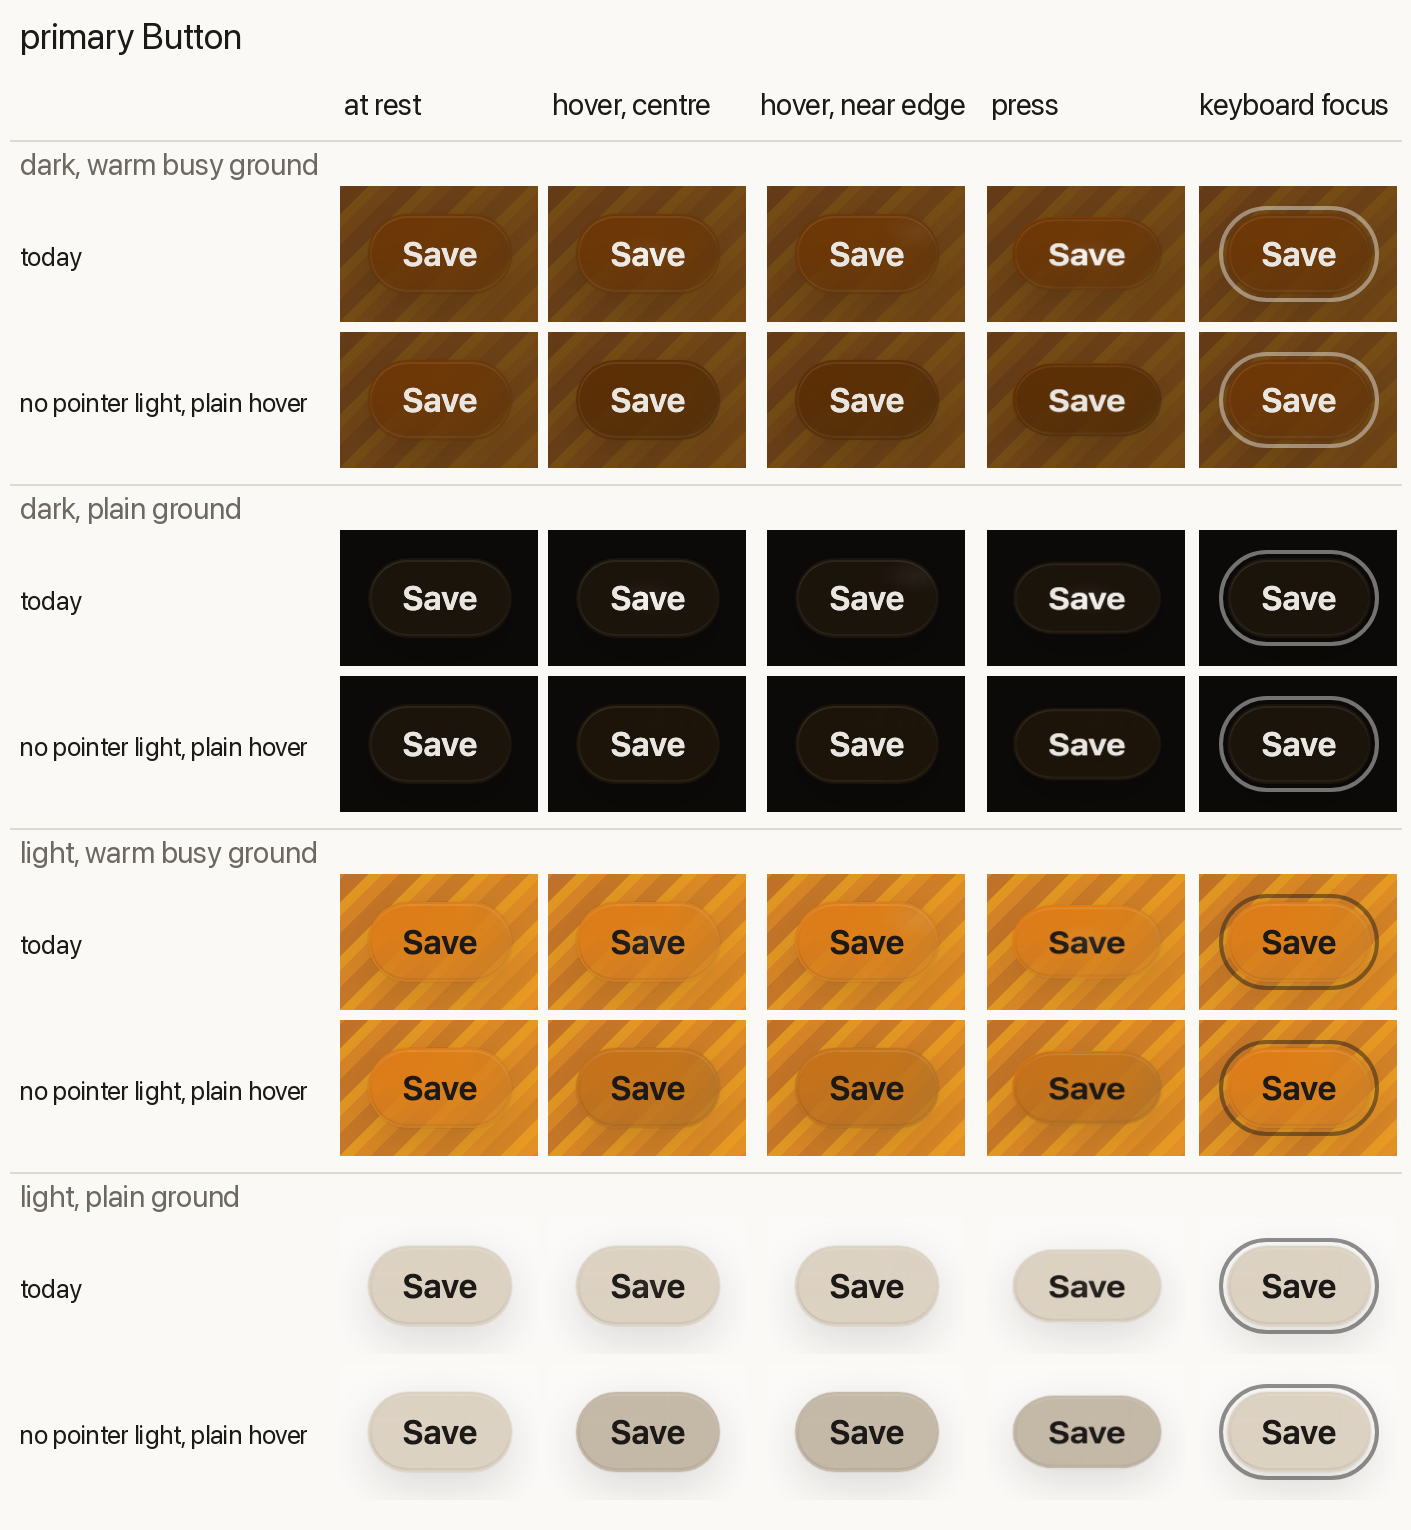
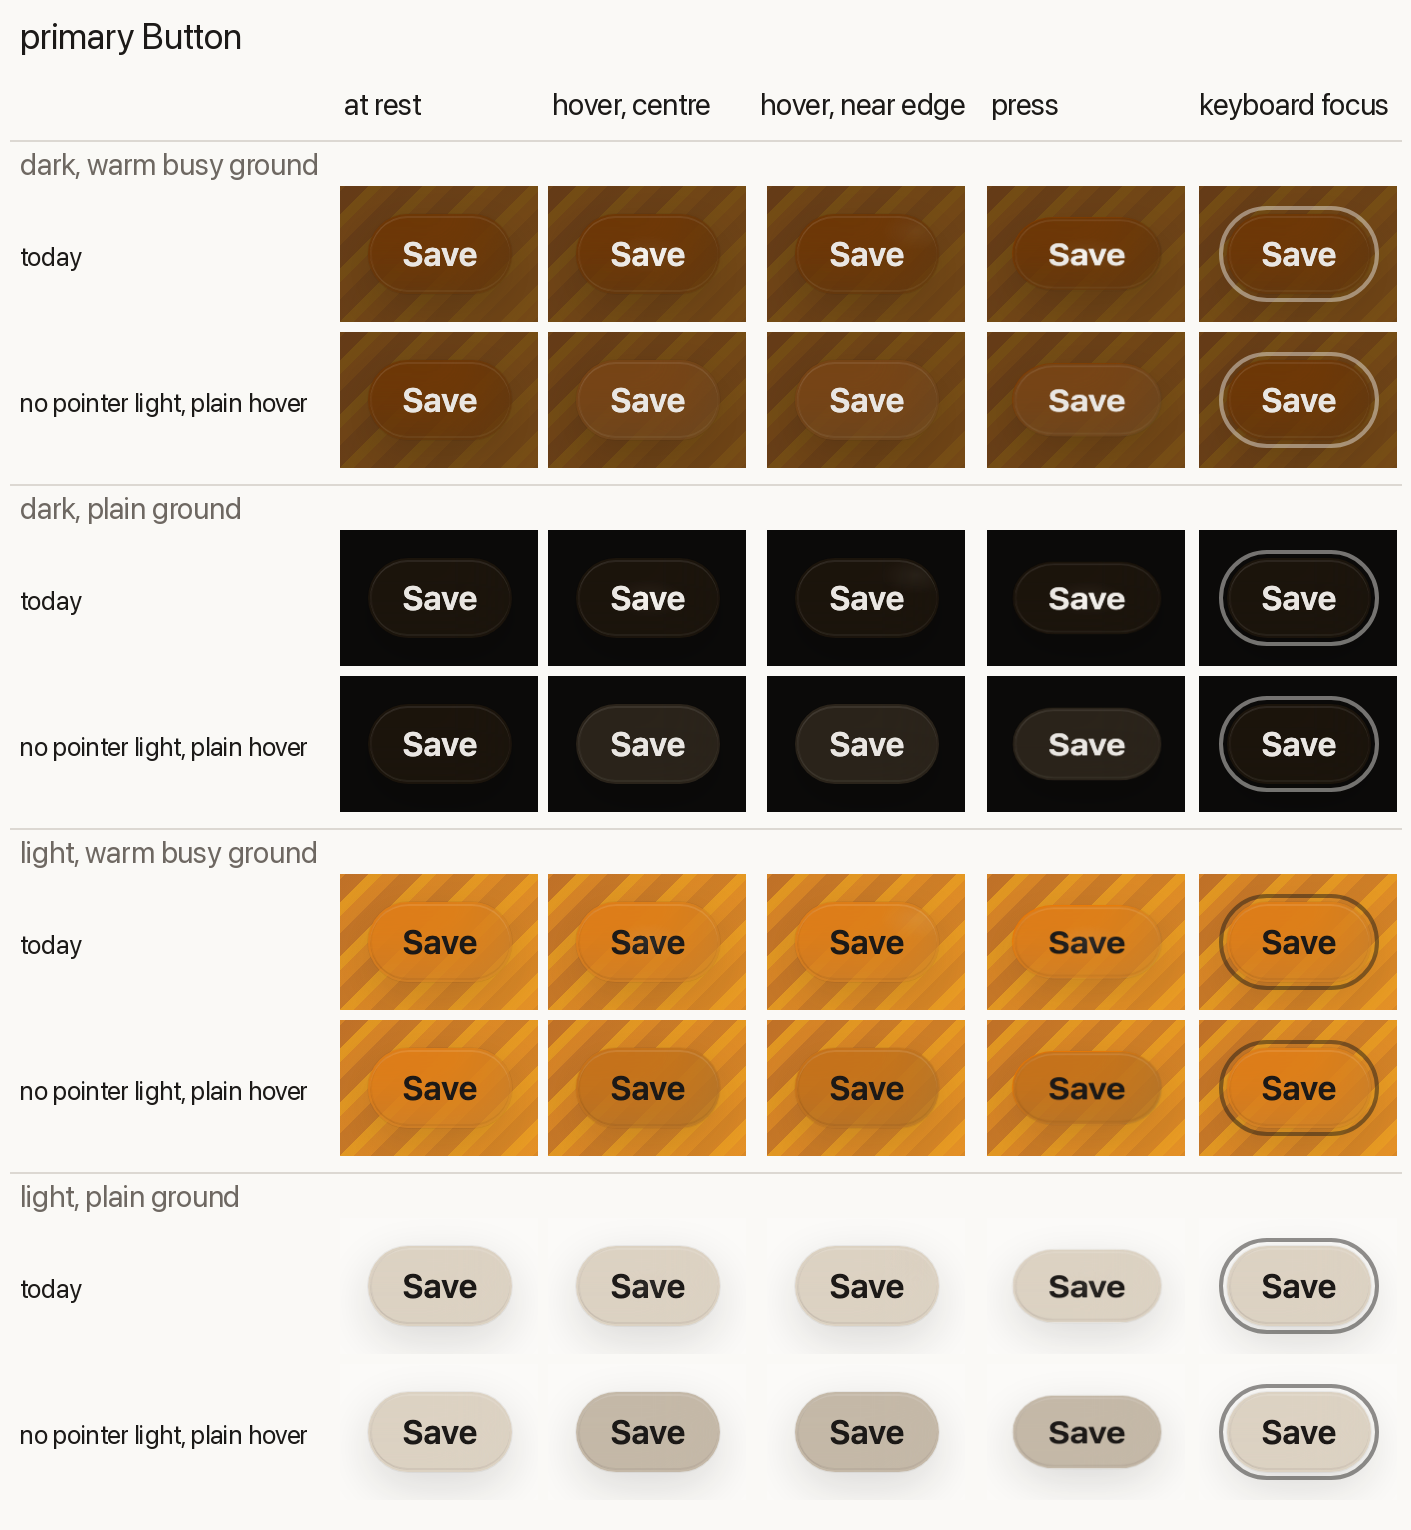
docs(BL): specular — the dark hover passes; booked for 11.1.2

Changed region(s): [[0.7172, 0.215, 0.842, 0.3072], [0.5613, 0.215, 0.686, 0.3072], [0.4054, 0.215, 0.5301, 0.3072]]

diff --git a/docs/tranches/BL/design/specular/PROTOTYPE.md b/docs/tranches/BL/design/specular/PROTOTYPE.md
@@ -157,69 +157,88 @@ The **slider thumb** stays legible and pressable without its dot, because the sl
 
 ## After the ruling
 
-`RULING.md` item 3, built on `bl/specular/proto` as one commit. `bl/specular/proto-b` was not touched.
+`RULING.md` item 3 and its addendum of 2026-11-16 01:05, built on `bl/specular/proto` in two commits. `bl/specular/proto-b` was not touched.
 
-**Tip:** `f6fe1efb39ec6739efb4c4fc5d4f587b34ad5b0f` ("proto(specular): the glass Button answers hover with its plate"), pushed.
+**Tip:** `3795843de317c7417fe4726a1a4eb8af3a34f020` ("proto(specular): in dark the glass Button's hover lifts toward the foreground"), pushed. Its parent is `f6fe1efb3` (the first build).
 
 ### What was built
 
-One rule in `src/components/button/styles.css`: 13 lines added, none removed, no token added.
+38 lines in `src/components/button/styles.css`, all inside the Button's existing `@media (hover: hover)` block. They apply to a primary or secondary Button (the icon button included) that is not disabled or loading. No token is added. There is no second layer, shadow or image, and nothing follows the pointer.
 
-- **Where it applies:** inside the Button's existing `@media (hover: hover)` block, on a primary or secondary Button (the icon button included) that is not disabled or loading.
-- **What it sets:** `--glass-veil-rung: calc(var(--glass-veil-rest) + var(--glass-veil-resting))`.
-- **Which token it reuses:** the dock seat's hover rule (`controls/icon-button.css`) paints `--dock-control-hover-bg`. In light that is `--glass-plate-resting`, the veil ink at alpha `--glass-veil-resting` (0.14) over no fill. The Button's plate already has a fill, so the same step is that alpha added to the plate's own rung. The earned darken, the warm floor and a tone tint all still compose on top.
-- **How it moves:** it rides the Button's existing `background-color` leg (`--engage-control-engage-release`, `--ease-standard`). Nothing follows the pointer, and there is no new rule for press or focus.
+**Light.** The plate's rung gains the dock seat's light hover tint: `--glass-veil-rung: calc(var(--glass-veil-rest) + var(--glass-veil-resting))`. The seat's light hover fill is `--glass-plate-resting`, which is veil ink at alpha `--glass-veil-resting`.
+
+**Dark.** The rung is held at rest. The rest fill is then mixed toward the foreground by the 8% that the seat's dark hover token uses (`tokens/dark-arm.css:294-299`), with one `color-mix()` on the `background-color` the Button already tweens:
+
+```css
+background-color: color-mix(in oklab, <the capsule's rest fill>, var(--foreground) 8%);
+```
+
+The rest-fill expression is the capsule's own, from `glass/glass-capsule.css`: `var(--glass-capsule-fill, …)`. A tone tint still rides on it.
+
+**Why there are still two arms.** I looked for a token that names a per-mode hover ink, so one expression could serve both modes. None exists. The seat's light step is veil ink (`--glass-veil-ink`) at a plate alpha, and its dark step is `--foreground` at 8%. `--dock-control-hover-bg` is a finished translucent colour, not an ink: mixing it in would apply its own alpha a second time at a 50/50 split. So the mode split stays.
+
+**WebKit and the nested mix.** The house comments warn that Safari drops a `color-mix()` whose endpoint is itself a `color-mix()`, and the rest fill nests one. One WebKit run (build 2311, `--exclusive webkit`) computes the same hovered colour as Chromium, for example `oklab(0.414935 0.010466 0.03477 / 0.397216)` on the primary in dark. So WebKit's engine build keeps the declaration. Shipping Safari was not tested.
 
 ### Readings
 
-Chromium headless shell at 2x, on the page described above.
+Chromium headless shell at 2x. Hover minus rest, in levels: the mean luma of the plate face, with the label and glyph excluded.
 
-**Hover minus rest, in levels** (mean luma of the plate face, label and glyph excluded):
+| Ground | Icon button | Primary Button | Dock seat | Within 3 of the seat? | Sign |
+|---|---|---|---|---|---|
+| dark, warm busy | +11.7 | +11.8 | +12.3 | yes (0.6, 0.5) | positive |
+| dark, plain | +15.6 | +15.1 | +17.0 | yes (1.4, 1.9) | positive |
+| light, warm busy | −12.2 | −13.4 | −13.6 | yes (1.4, 0.2) | negative |
+| light, plain | −25.3 | −25.2 | −26.7 | yes (1.4, 1.5) | negative |
 
-| Ground | Icon button | Primary Button | Dock seat (the bar) | Gate |
-|---|---|---|---|---|
-| dark, warm busy | **−9.4** | **−9.9** | +12.3 | fails: smaller, and the opposite direction |
-| dark, plain | **0.0** | **+0.2** | +17.0 | fails: no visible hover |
-| light, warm busy | −12.2 | −13.4 | −13.6 | short by 1.4 and 0.2 levels |
-| light, plain | −25.3 | −25.2 | −26.7 | short by 1.4 and 1.5 levels |
+The WebKit readings, from the same run, are all within 2.5 levels:
 
-Today's icon and primary Buttons read 0.0 on every ground, which is the defect the ruling cures.
+| Ground | Icon | Primary | Seat |
+|---|---|---|---|
+| dark, busy | +13.0 | +12.7 | +14.3 |
+| dark, plain | +15.7 | +15.3 | +17.3 |
+| light, busy | −6.6 | −10.1 | −9.1 |
+| light, plain | −25.2 | −25.5 | −26.6 |
 
-**Why dark fails.** The dock seat's hover token has two arms (`tokens/dark-arm.css:294-299`). In dark it is `color-mix(in oklab, var(--foreground) 8%, transparent)`: it lifts toward the foreground, because, as the comment there says, the deeper veil ink "would draw the seat darker than the plate it sits on". I reused the light arm's step (veil ink), which in dark deepens an already dark ink, `oklch(0.17 0.03 70)`. On the plain dark ground the alpha rises (0.28 to 0.43) while the composite stays the same (0 levels). On the busy ground it darkens.
+**The percentage.** 8% passes as ruled, so no other percentage is used. A sweep on the dark grounds shows the margin:
 
-The dark arm's lift cannot reach the Button in one leg, because the Button already paints a plate fill. A tint on top of a fill is either a second `color-mix` around the plate, or a second paint layer (an image layer, which does not tween, or an inset shadow, which breaks the one-shadow ceiling). Neither is "the plate's fill steps one tint" with no new mechanism, so I did not build either. Which one, if any, is a design call.
+| Dark mix | Plain ground | Busy ground |
+|---|---|---|
+| 8% | within 1.9 levels of the seat | within 0.6 |
+| 10% | within 2.1 | within 2.4 |
+| 12% | overshoots by 6.1 | overshoots by 5.4 |
 
-**Per frame, hover in and out** (computed `background-color` per animation frame, not screenshots):
+**Per frame**, from the computed `background-color` on every animation frame, hover in and then out, on all four grounds:
 
 | | Frames in | Largest step, in | Frames out | Largest step, out |
 |---|---|---|---|---|
-| icon button, all four grounds | 22 | 0.133 to 0.148 of the change | 22 | 0.116 to 0.152 |
-| primary Button, all four grounds | 22 | 0.127 to 0.129 | 22 | 0.120 to 0.130 |
+| icon button | 22 | 0.129 to 0.132 of the change | 22 | 0.117 to 0.141 |
+| primary Button | 22 | 0.129 to 0.134 | 22 | 0.120 to 0.138 |
 
-Every frame carries less than a fifth of the change: **passes**. The rung moves 0.14 → 0.32 on the icon button in dark (0.10 → 0.24 in light) and 0.22 → 0.40 on the primary in dark (0.18 → 0.32 in light).
+No frame carries a fifth of the change.
 
-**Other checks:**
+**The rest of the gate:**
 
-- **Shift gate:** on this tree, dark and light, no box moves on hover or focus. The same two slider-press shifts appear as in every tree.
-- **Typecheck:** `src` is clean. The test project shows the same two `dist/`-dependent errors as before.
-- **vitest:** 7 files that read the Button and its styles, `--maxWorkers=2`: 247 pass, 1 expected fail.
+- **Shift gate** (`shift-gate.mjs`, dark and light, this tree): no box moves on hover or focus. It reports the same two slider-press shifts as every tree.
+- **Typecheck:** `src` is clean.
+- **The seven Button test files:** 247 pass, 1 expected fail.
 
 ### The strips
 
-`strips/icon.png`, `strips/primary.png` and `strips/quiet.png` are replaced, with two rows each: "today" and "no pointer light, plain hover". The columns and the four grounds are the same as before. The cells are from the committed tip.
+`strips/icon.png` and `strips/primary.png` were re-captured from the tip. Each has two rows ("today", "no pointer light, plain hover"), the same five columns and four grounds. `strips/quiet.png` keeps the capture from the first build; the quiet Button is not touched by either commit.
 
-- **Light:** hovering the icon button and the primary Button now shows a plain, even step in the plate, with no spot.
-- **Press:** pressing keeps the hover fill, because the pointer is still over the button, as on a dock seat.
-- **Dark, warm ground:** the plate goes a shade darker.
-- **Dark, plain ground:** hover looks like rest. Crop: `strips/primary.png`, the dark, plain-ground block, "at rest" against "hover, centre".
-- **Quiet Button:** unchanged; it had its own hover already.
+- **Dark:** hovering lifts the plate a shade toward the label's ink, on the busy ground and the plain one alike.
+- **Light:** hovering deepens the plate one tint.
+- **Press:** the hover fill stays while pressing, because the pointer is still over the button, as on a dock seat.
+- **Focus:** unchanged.
 
-### Gate summary for item 3
+### Gate summary
 
 | Part of the gate | Result |
 |---|---|
-| Light | Fails by up to 1.5 levels, a near miss, not a visible gap: the step is the same alpha as the seat's, laid over a plate that already has a fill rather than over none. |
-| Dark | Fails outright for the reason above. |
-| Frames | Pass. |
-| Box movement | Passes. |
+| Sign of hover minus rest | Passes on all four grounds: positive in dark, negative in light. |
+| Within 3 levels of the dock seat | Passes everywhere: the largest gap is 1.9 levels in Chromium and 2.5 in WebKit. |
+| No frame carries a fifth of the change | Passes. |
+| No box moves | Passes. |
+| Typecheck | Passes. |
+| The seven Button test files | Pass. |
 | Press and focus | Unchanged. |

diff --git a/docs/tranches/BL/driver/glass-11.1.1-scope.md b/docs/tranches/BL/driver/glass-11.1.1-scope.md
@@ -109,3 +109,7 @@ Every row of `docs/tranches/BL/audit/animation/INBOUND-ROWS.md` whose release is
 - O-362 (2026-11-15), a RULE for every seat of this release: **a frame-rate or frame-cost witness is read on the GPU lane and records its renderer.** Launch Playwright's headless shell with `--use-angle=metal --enable-gpu --ignore-gpu-blocklist`, read `UNMASKED_RENDERER_WEBGL` in the page in every cell, and write the string beside the reading (expect "ANGLE Metal Renderer"; "SwiftShader" means software and the reading is not evidence of a real-device cost). Blur-under-animation costs measured in the default software lane were shown to vanish on the GPU. Consequences here: O-356 (an opaque surface computes `backdrop-filter: none`) stays as a small CSS cure with a computed-style witness only, and is no longer first in seat B; LT-6 and LT-7 of O-354 are re-read on the GPU lane before any cure is built, and only their behaviour halves are owed regardless (a surface mounts, then animates from its first painted frame). Layout counts, forced-layout traces and behaviour witnesses (reversal, focus, first-frame position) are unaffected by the lane.
 - O-363 (gaggle on 11.0.2, 2026-11-15; frames and timings in `~/Programming/gaggle-site/docs/site/tranches/S/analysis/R-pass-5/ASK-GLASS.md` part 2, read-only). Seat C with the Sheet rows: at 390 the leaving sheet stalls as a stub about 100 px tall from 167 to 584 ms (765 ms in all against 441 at 1440): the leave is one continuous travel, and its duration at 390 is no longer than at 1440; at 390 the sheet animates width (layout shift 0.44 in, 0.45 out): only transform and opacity animate at every width (witness: layout-shift score 0 across open and close at 390 and 1440). With O-321(a): a press on the page while a sheet leaves is not swallowed (find whether reka's dismissable layer or glass's overlay holds it). Seat B: a resting, non-interactive Card runs no box-shadow or border-colour transition when something inside it takes focus or a press. DataTable: the sort button honours `headerClass`.
 - O-364 (Gregg on 11.0.2, 2026-11-15), seat D with O-350: under reduced motion a dock's fold and unfold are a fade, not a one-frame swap: the two faces cross-fade within 150 ms and the box does not change size in a single frame (Gregg's stand-in, `reduceFold` in ~/Programming/gregg/src/components/dockFold.ts, read-only, eases the width over about 120 ms while the faces cross-fade: that is the behaviour to match). Witness per frame at 390 under reduce, both engines.
+
+## Added 2026-11-16: the specular change, ready to take (O-367, O-367a)
+
+Branch `bl/specular/proto` @ 3795843de (three commits on master @ 610e598d4): the pointer-following light leaves every control (248 CSS lines), and the glass Button and icon button get a plain hover (light: one tint step; dark: the rest fill mixed 8% toward the foreground). Ruling and readings: `design/specular/RULING.md`, `PROTOTYPE.md`, strips beside them. This file is 11.1.2's scope. The build seat rebases the three commits onto the release branch, re-reads the gates there in both engines (hover minus rest positive in dark and negative in light on four grounds, within 3 levels of the dock seat's; no frame over a fifth; shift-gate clean), and adds one read the prototype could not make: the nested `color-mix()` in the dark rule in real Safari or, failing that, a flat fallback declared before it. V-B (`bl/specular/proto-b`) is not taken.

diff --git a/docs/tranches/BL/FORMATION-PROGRESS.md b/docs/tranches/BL/FORMATION-PROGRESS.md
@@ -1040,3 +1040,5 @@ Disk episode, one line: on 2026-11-03 the volume went from 100% (15 GiB free) to
 - 2026-11-15 23:21 — demo: P4 foundations merged to `bl/demo` (six of eleven sections in: P2 P3 P4 P5 P6 P7; P6 unmeasured). The shell's own-canvas list (`demo/chassis/hero/focal.ts`) has needed a hand edit three times: P13 replaces it with a declaration on the stage. P8 navigation + P9 data live. Dock sixth pass at step 4 (G-15); RU-50 (the fit flag reads only inputs it does not affect) and RU-51 sent to it.
 
 - 2026-11-16 00:20 — 11.1.1 build B DONE: rows 5, 6, 7, 9, 11 and the Dialog clock landed (001a726e8, dae6d8b3f, 500df67da, aa0cf3170, fd338d8cf; standing cell 936ea8128 as `gate:exits`); it MOVED row 8 whole and never saw rows 10, 12, 13. RULED: row 8 stays in 11.1.1 (`orchestrator-note-row-8.md`: four commits; the reduced-motion fade cap is 200 ms, the existing fast duration). Critic 1 (Fable) live; it must file rows 8, 10, 12, 13 as defects so the fix seat builds them. **If critic 1 returns clean without them, resume `wf_7b4b4753-433` with a `resume` arg for `fix-1111-2` and an edited script that forces a fix round.** Demo: P8 navigation + P9 data live (six merged). Dock sixth pass at G-15 level 0.4 with the ink deletion (the last state in the order). Specular prototype seat live.
+
+- 2026-11-16 01:03 — specular RULED and built: `bl/specular/proto` @ 3795843de (V-A plus a plain hover that passes in dark and light, within 1.9 levels of the dock seat's step); booked into 11.1.2's scope file (`driver/glass-11.1.1-scope.md`, which is 11.1.2). V-B dropped. Worktree `.claude/worktrees/bl/specular` is sparse and small; kept until 11.1.2 takes it.
